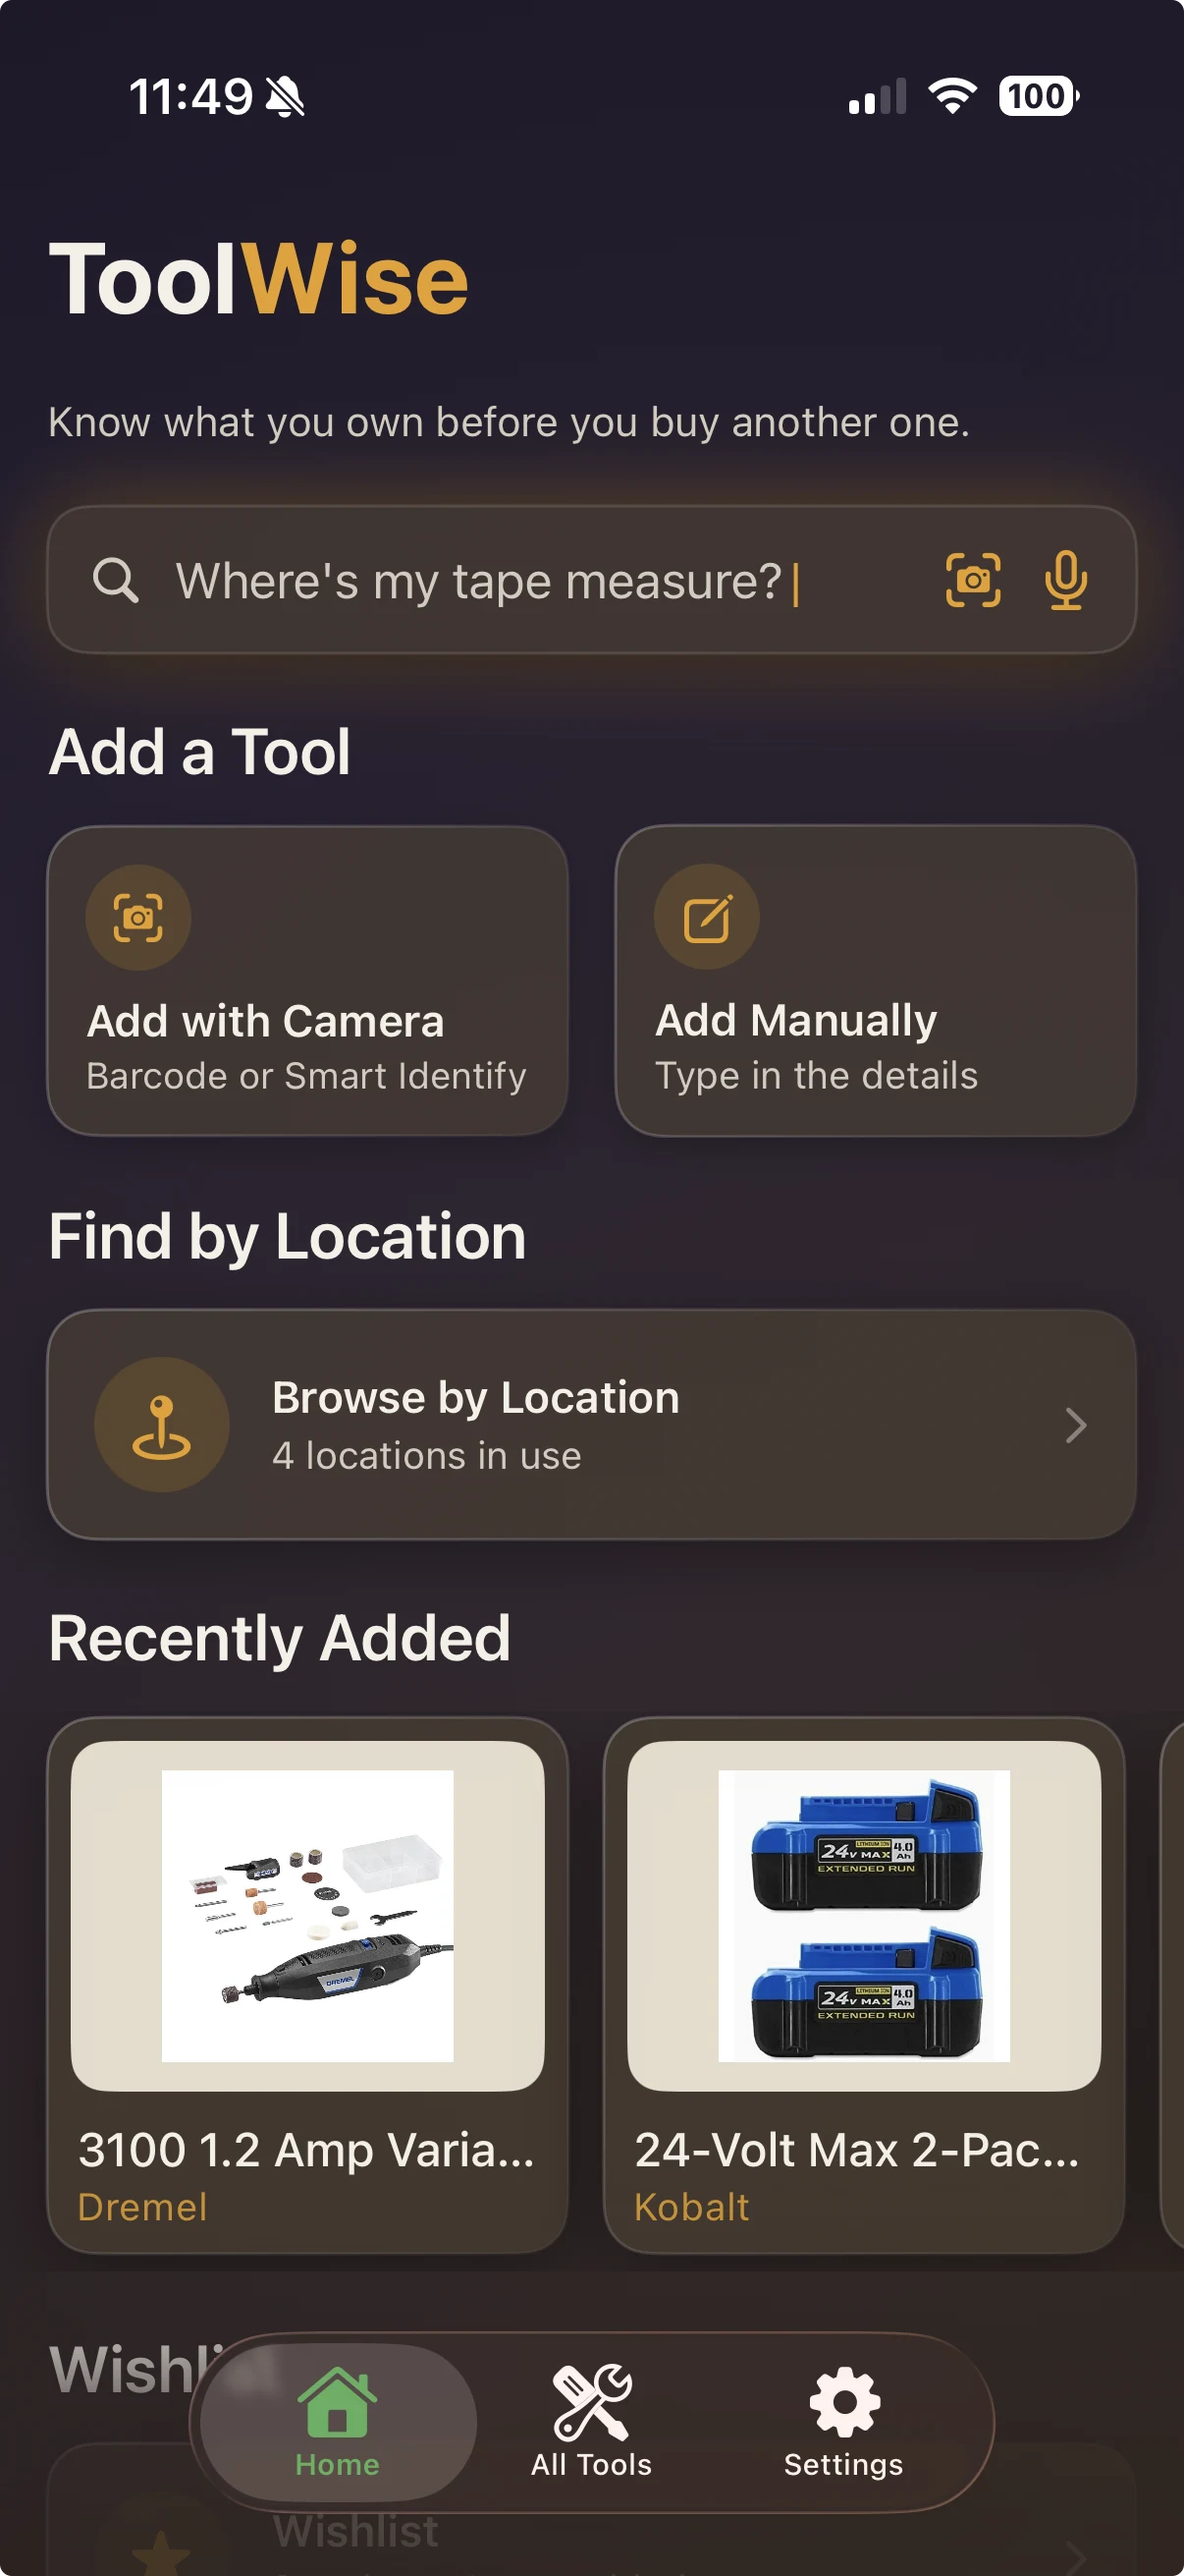
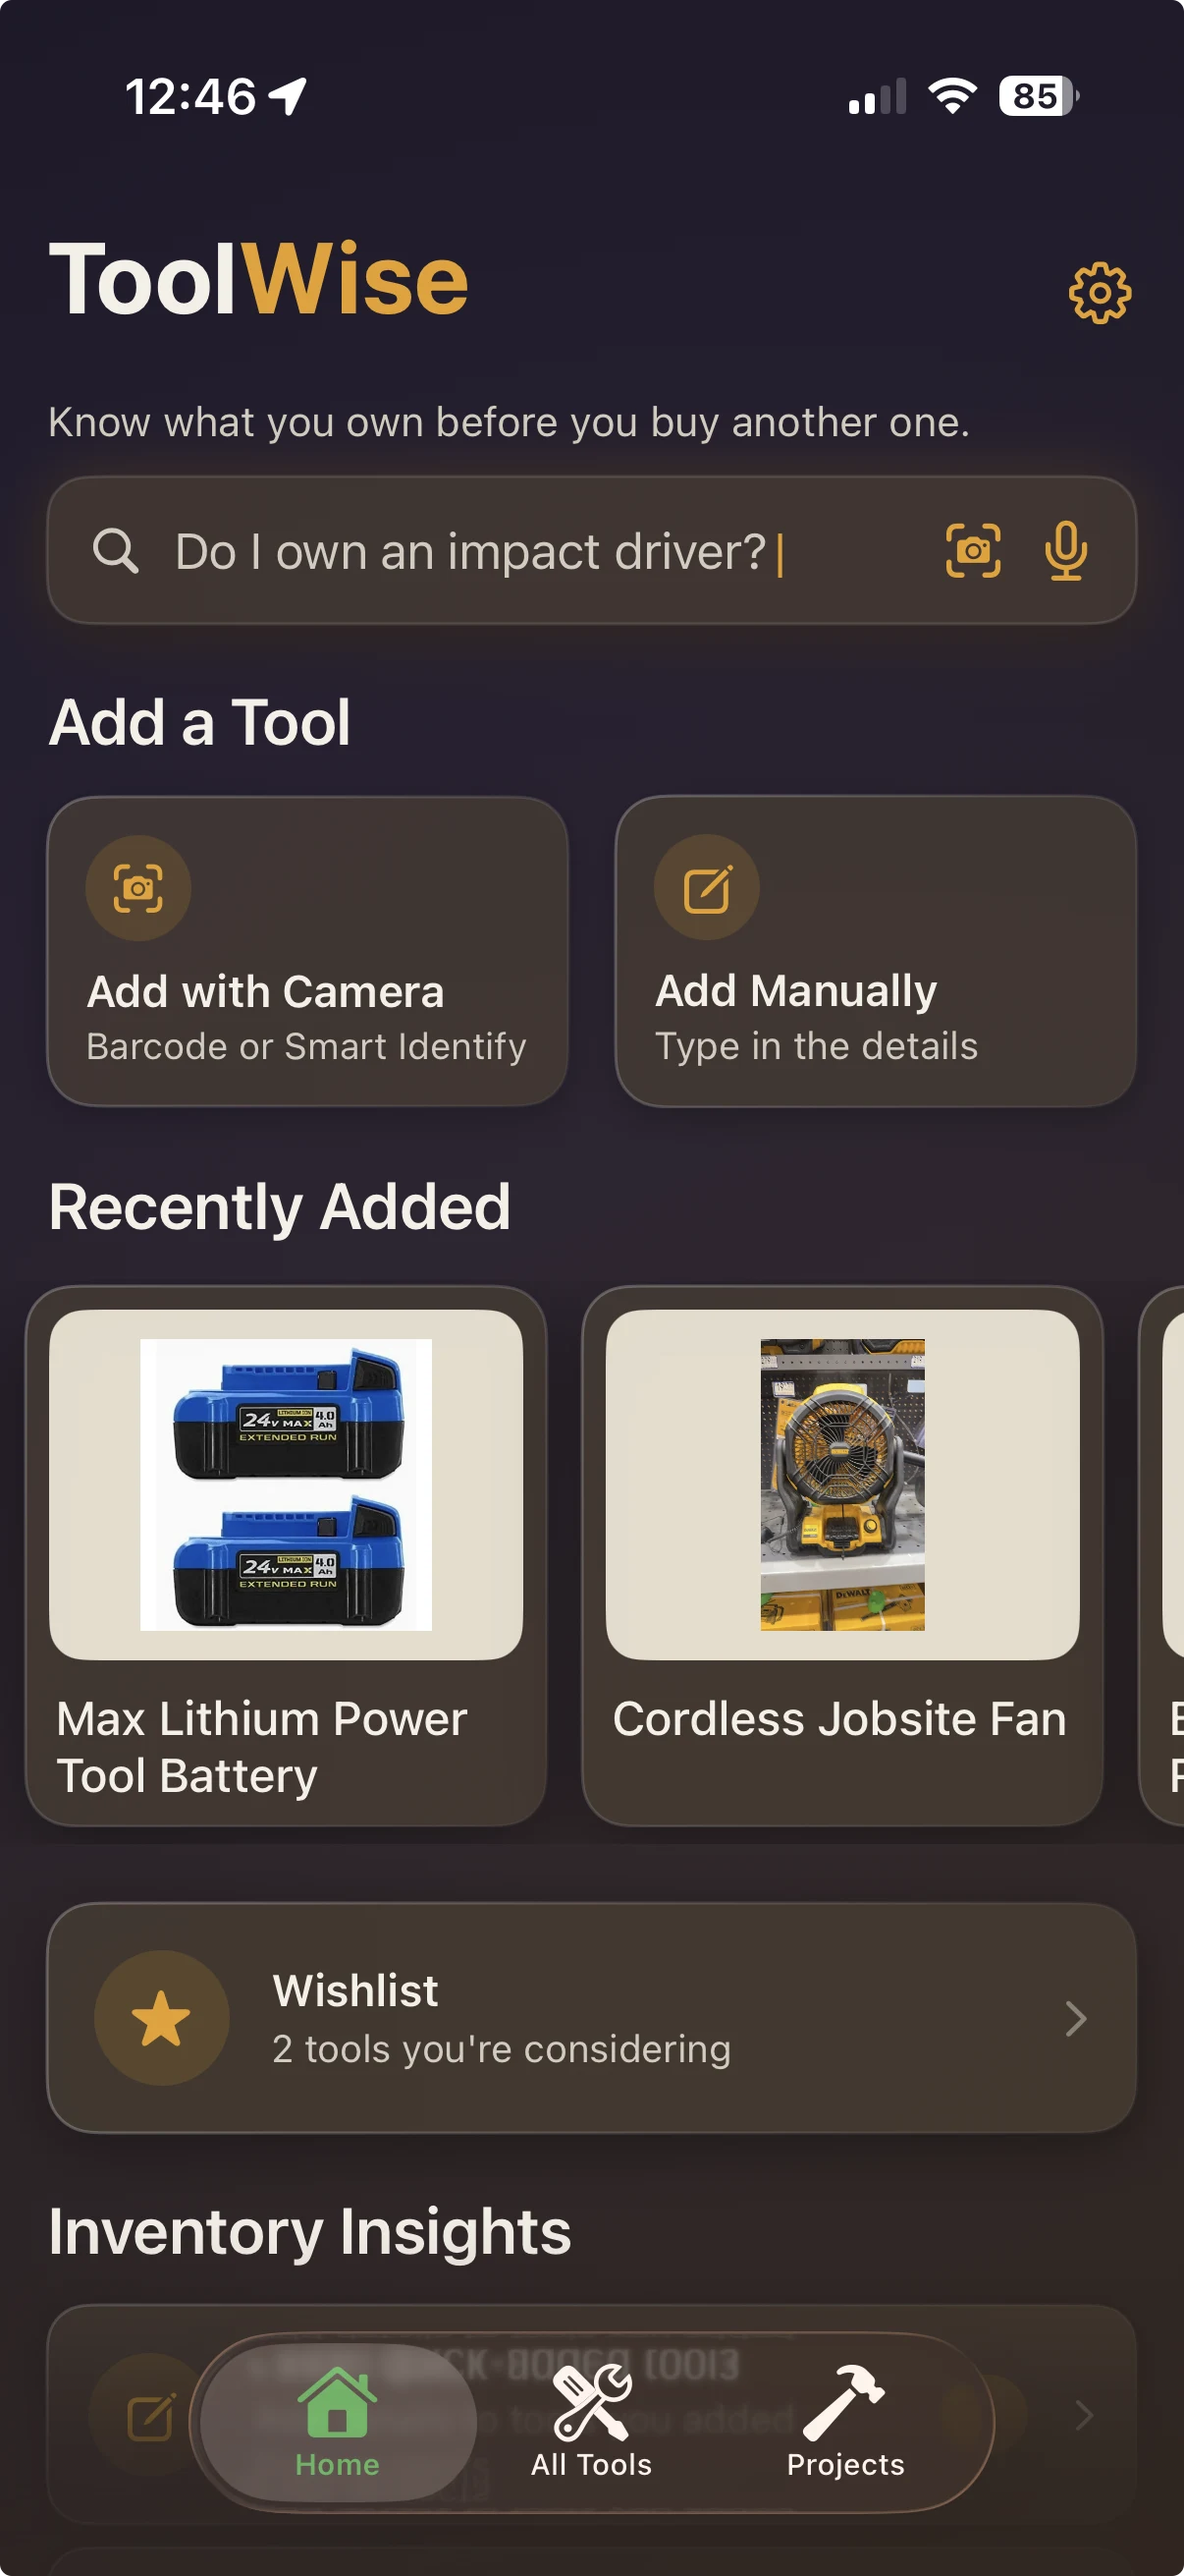
Update hero screenshot and retarget the second floating card
New home screen capture: ownership-phrased search query, settings
moved to a gear icon, Projects in the tab bar, and new Wishlist and
Inventory Insights sections. Find by Location no longer appears on
the home screen.

Replaces the "Found it / Garage" callout with "Fast add / Smart
Identify" so the hero highlights the capture path the screenshot
actually shows. Alt text updated to match the new screen — it still
listed locations.

Converted at WebP q88 to match the previous asset (127 KB).

diff --git a/index.html b/index.html
@@ -43,9 +43,9 @@
       </div>
       <div class="hero-visual reveal">
         <div class="measurement top">12″</div><div class="measurement side">90°</div>
-        <div class="phone-stage"><div class="phone hero-phone"><div class="phone-notch"></div><img src="assets/screen-home-latest.webp" alt="ToolWise home screen showing search, scan, voice entry, locations, and recently added tools"></div></div>
+        <div class="phone-stage"><div class="phone hero-phone"><div class="phone-notch"></div><img src="assets/screen-home-latest.webp" alt="ToolWise home screen showing search, scan, voice entry, recently added tools, wishlist, and inventory insights"></div></div>
         <div class="floating-card card-search"><b>Fast check</b><span>Type, scan, or speak</span></div>
-        <div class="floating-card card-location"><b>Found it ✓</b><span>Garage</span></div>
+        <div class="floating-card card-location"><b>Fast add</b><span>Smart Identify</span></div>
       </div>
     </section>
 
